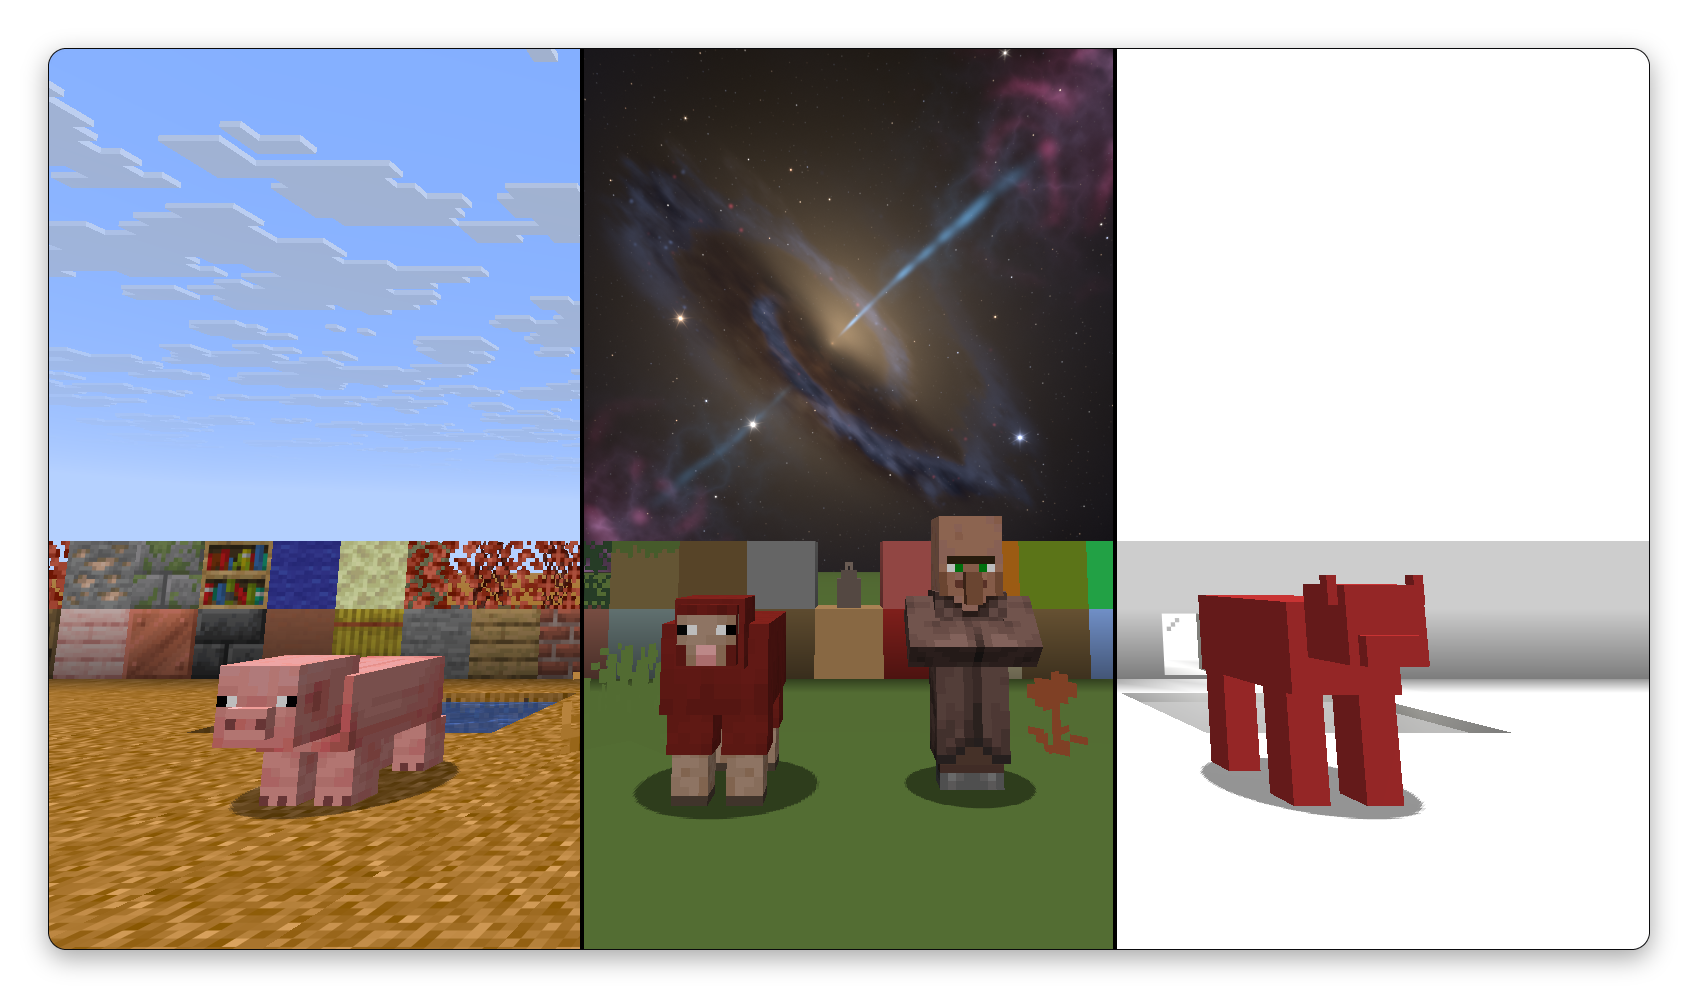
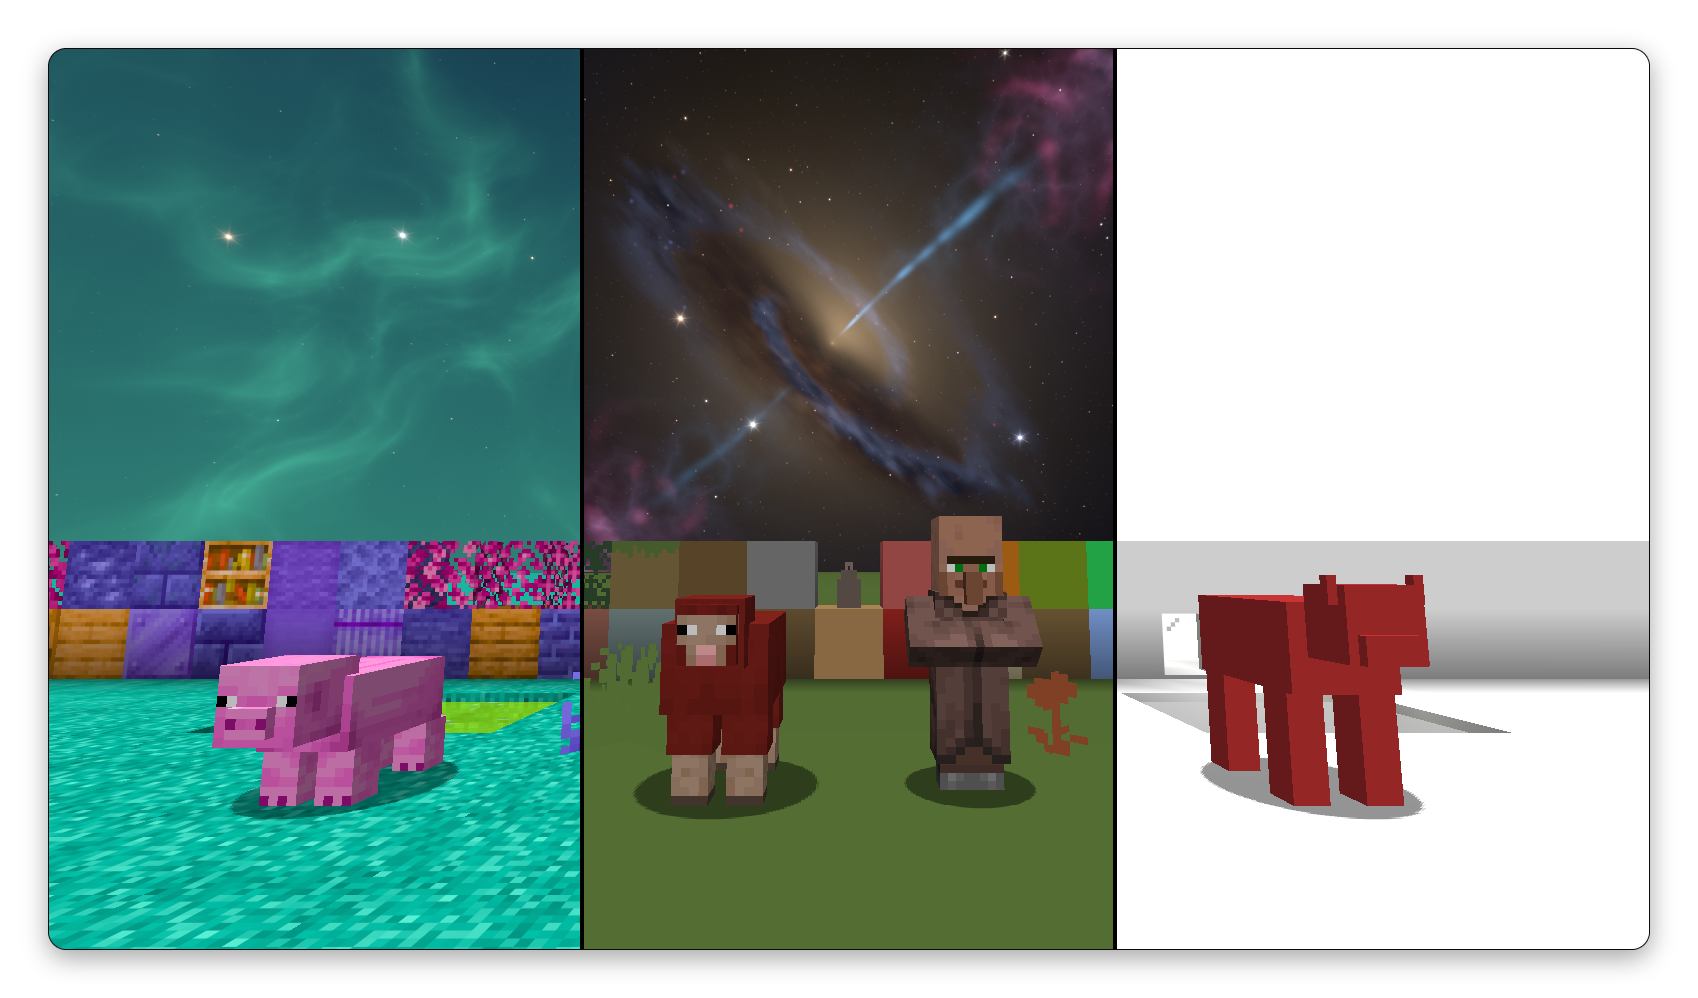
docs: Show an alien planet in the left strip of the split image
Every block, the water and the mobs are recolored and keep their texture, under a
teal sky with clouds and stars. The sky does not turn, so each shot is the same.

Changed region(s): [[0.0312, 0.0311, 0.3433, 0.9629]]

diff --git a/modrinth/DESCRIPTION.md b/modrinth/DESCRIPTION.md
@@ -1,6 +1,6 @@
 # Albedo
 
-![Autumn colors, the minimal profile with the Galaxy sky, and quake-white](https://raw.githubusercontent.com/wvvern/albedo/master/modrinth/header.png)
+![An alien planet, the minimal profile with the Galaxy sky, and quake-white](https://raw.githubusercontent.com/wvvern/albedo/master/modrinth/header.png)
 
 Albedo is a client-side mod that lets you paint blocks, fluids, the sky, mobs and the rest of the world in any color. Give each part one flat color, or recolor its textures and keep their detail.
 

diff --git a/README.md b/README.md
@@ -4,7 +4,7 @@ Albedo is a client-side Minecraft mod that lets you paint blocks, fluids, the sk
 
 Textures are changed as they load, so modded blocks and resource packs work too.
 
-![Autumn colors, the minimal profile with the Galaxy sky, and quake-white](modrinth/header.png)
+![An alien planet, the minimal profile with the Galaxy sky, and quake-white](modrinth/header.png)
 
 ## Features
 
